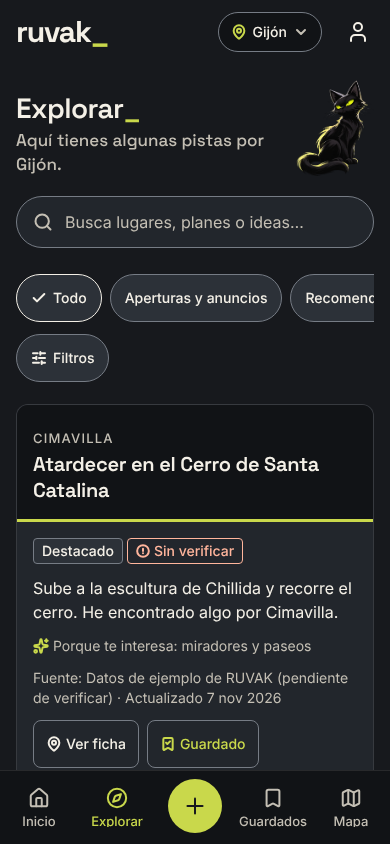
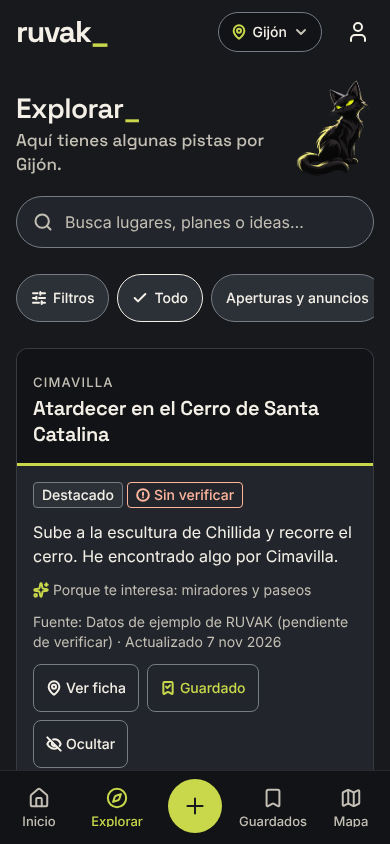
Segunda revisión UX: perfil en móvil, filtros del mapa y atribución
- Corrige que el botón de perfil de la cabecera no llevaba al Perfil en
  móvil (href: null redirige a Inicio); la prueba de humo de las capturas
  lo comprueba y se verificó que falla con el error original.
- Mapa: «Filtros» junto a Mapa|Lista, tarjeta sobre la atribución de OSM,
  aviso de sin ubicación más corto. Explorar: «Filtros» al principio de la
  fila. Panel editorial: solo se señala «Borrador».

Claude-Session: https://claude.ai/code/session_01PNs63n5rqjgF1jEZwCu7rT

Changed region(s): [[0.0308, 0.3081, 0.9538, 0.8934]]

diff --git a/src/app/(tabs)/mapa.tsx b/src/app/(tabs)/mapa.tsx
@@ -7,7 +7,6 @@ import { PlaceListItem, PlaceStatusBadge } from '@/components/Place';
 import { Badge, Button, Card, Chip, ChipRow, ErrorState, Loading, P, Row, Segmented } from '@/components/ui';
 import { getCollections, getDiscovery, getMyPlaces } from '@/lib/data';
 import { EMPTY_FILTERS, filterPlaces, type StatusFilter } from '@/lib/filters';
-import { plural } from '@/lib/format';
 import { useCategoryName, useSession } from '@/lib/session';
 import { colors, elevation, layout, radii, space, themed, typography } from '@/lib/tokens';
 import { useLoad } from '@/lib/useLoad';
@@ -87,18 +86,18 @@ export default function MapScreen() {
               { value: 'list', label: 'Lista', icon: 'list' },
             ]}
           />
-          <MapLegend />
-        </Row>
-        <ChipRow>
-          {/* Capas del mapa: activadas por defecto, por eso en tono neutro (el lima es para filtros activos). */}
-          <Chip label="Mis lugares" selected={showSaved} quiet onPress={() => setShowSaved(!showSaved)} />
-          <Chip label="Recomendaciones" selected={showDiscovery} quiet onPress={() => setShowDiscovery(!showDiscovery)} />
           <Chip
             label={activeFilters ? `Filtros (${activeFilters})` : 'Filtros'}
             icon="filters"
             selected={activeFilters > 0}
             onPress={() => setShowFilters(!showFilters)}
           />
+        </Row>
+        <MapLegend />
+        <ChipRow>
+          {/* Capas del mapa: activadas por defecto, por eso en tono neutro (el lima es para filtros activos). */}
+          <Chip label="Mis lugares" selected={showSaved} quiet onPress={() => setShowSaved(!showSaved)} />
+          <Chip label="Recomendaciones" selected={showDiscovery} quiet onPress={() => setShowDiscovery(!showDiscovery)} />
         </ChipRow>
         {showFilters ? (
           <Card>
@@ -132,12 +131,7 @@ export default function MapScreen() {
             ) : null}
           </Card>
         ) : null}
-        {withoutCoords > 0 ? (
-          <P
-            muted
-            style={{ fontSize: 14 }}
-          >{`${plural(withoutCoords, 'lugar', 'lugares')} sin ubicación no ${withoutCoords === 1 ? 'aparece' : 'aparecen'} en el mapa (sí en la lista).`}</P>
-        ) : null}
+        {withoutCoords > 0 ? <P muted style={{ fontSize: 14 }}>{`${withoutCoords} sin ubicación (solo en Lista)`}</P> : null}
       </View>
 
       {places.error ? (
@@ -214,7 +208,7 @@ const styles = themed(() =>
       position: 'absolute',
       left: space[3],
       right: space[3],
-      bottom: space[3],
+      bottom: space[3] + 24,
       maxWidth: 520,
       alignSelf: 'center',
       backgroundColor: colors.card,

diff --git a/src/app/(tabs)/descubrir.tsx b/src/app/(tabs)/descubrir.tsx
@@ -90,21 +90,18 @@ export default function Discover() {
 
       <View style={{ gap: space[1] }}>
         <ChipRow>
-          {KIND_FILTERS.map((k) => (
-            <Chip key={k.key} label={k.label} selected={kind === k.key} quiet={k.key === 'all'} onPress={() => setKind(k.key)} />
-          ))}
-        </ChipRow>
-        {usedCats.length > 1 || zones.length > 1 ? (
-          <Row gap={space[2]} wrap>
+          {usedCats.length > 1 || zones.length > 1 ? (
             <Chip
               label={activeFilters ? `Filtros (${activeFilters})` : 'Filtros'}
               icon="filters"
               selected={activeFilters > 0}
               onPress={() => setShowFilters(!showFilters)}
             />
-            {activeFilters ? <LinkButton label="Quitar filtros" onPress={clearFilters} /> : null}
-          </Row>
-        ) : null}
+          ) : null}
+          {KIND_FILTERS.map((k) => (
+            <Chip key={k.key} label={k.label} selected={kind === k.key} quiet={k.key === 'all'} onPress={() => setKind(k.key)} />
+          ))}
+        </ChipRow>
         {showFilters ? (
           <Card>
             {usedCats.length > 1 ? (
@@ -127,6 +124,7 @@ export default function Discover() {
                 </Row>
               </>
             ) : null}
+            {activeFilters ? <LinkButton label="Quitar filtros" onPress={clearFilters} /> : null}
           </Card>
         ) : null}
       </View>

diff --git a/src/app/(tabs)/_layout.tsx b/src/app/(tabs)/_layout.tsx
@@ -102,8 +102,9 @@ export default function TabsLayout() {
         name="perfil"
         options={{
           title: 'Perfil',
-          // Móvil: en la cabecera. Escritorio: también en la barra lateral.
-          ...(wide ? {} : { href: null }),
+          // Móvil: acceso desde la cabecera, sin hueco en la barra. NO usar `href: null`: en esta versión de
+          // Expo Router oculta la pestaña y navegar a ella redirige a Inicio. Escritorio: también en la barra lateral.
+          ...(wide ? {} : { tabBarItemStyle: { display: 'none' as const } }),
           tabBarLabel: ({ color }) => (
             <Text numberOfLines={1} style={[labelStyle, { color: String(color) }, { fontSize: 15, textAlign: 'left', marginLeft: 12 }]}>
               Perfil

diff --git a/src/app/admin/index.tsx b/src/app/admin/index.tsx
@@ -40,7 +40,8 @@ export default function Admin() {
             <Row gap={space[1]} wrap>
               <KindBadge kind={i.kind} />
               <VerificationBadge v={i.verification} />
-              {i.published ? <Badge label="Publicado" tone="blue" icon="check" /> : <Badge label="Borrador" icon="pencil" />}
+              {/* Solo se señala lo que NO está publicado (lo normal no necesita etiqueta). */}
+              {i.published ? null : <Badge label="Borrador" icon="pencil" />}
             </Row>
             <Text style={[typography.cardTitle, { color: colors.text }]}>{i.title}</Text>
             <P muted style={{ fontSize: 14 }}>

diff --git a/docs/decisiones.md b/docs/decisiones.md
@@ -19,5 +19,6 @@
 | 2026-11-07 | Mascota con las ilustraciones de la usuaria (WebP con alfa) e iconos generados desde la cabeza del gato | Identidad real; los originales se conservan intactos y los derivados se regeneran con `prepare-ruvak.mjs` |
 | 2026-11-08 | Revisión UX por un agente experto antes de presentar cualquier cambio visual (norma en `CLAUDE.md`) | Petición de la usuaria; la primera pasada encontró contraste AAA incumplido en claro, objetivos táctiles de 40–42 px y exceso de controles |
 | 2026-11-08 | Tema claro con acento azul `#173A94` y textos más oscuros; etiqueta naranja con relleno `#FA8C63` | Cumplir AAA (7:1) en todo el texto; el azul/naranja de la lámina daban 5,3–5,4:1 |
+| 2026-11-08 | Perfil en móvil oculto de la barra con `tabBarItemStyle`, no con `href: null` | `href: null` hace que navegar a la ruta redirija a Inicio: el botón de perfil de la cabecera no funcionaba (lo detectó la revisión UX) |
 | 2026-11-08 | Agenda y Viajes sin accesos visibles hasta que existan | Llevaban a páginas vacías (confunde); las rutas siguen creadas |
 | 2026-11-08 | Reparto tipográfico de la usuaria: Space Grotesk 600/500, Inter 400/500; wordmark propio | Pesos concretos por uso; el wordmark se compone provisionalmente hasta tener el archivo |

diff --git a/docs/arquitectura.md b/docs/arquitectura.md
@@ -71,6 +71,7 @@ docs/                   esta documentación
 ## Puntos delicados
 
 - **WebView**: sus tipos colapsan a `never` con esta versión de RN; `MapCanvas.tsx` lo tipa con las props de Android (como Sandow).
+- **Pestañas ocultas**: no usar `href: null` para esconder una pestaña a la que se navega por código (el Perfil en móvil): en Expo Router 58 la marca como oculta y navegar a ella redirige a Inicio. Se oculta con `tabBarItemStyle: { display: 'none' }`. `scripts/capture-screens.mjs` incluye una prueba de humo que pulsa el botón de perfil.
 - **TypeScript 6** ya no incluye `@types/node` por defecto: los scripts llevan `/// <reference types="node" />`.
 - **React Compiler (lint)**: los formularios que parten de datos cargados se montan con `key` y estado inicial
   (sin copiar en `useEffect`).
